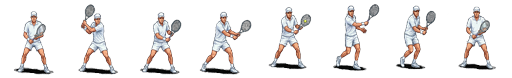
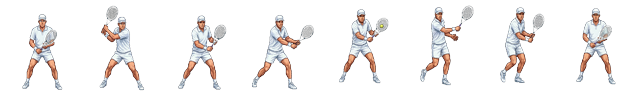
fix: larger sprites (80x96), better background removal

diff --git a/index.html b/index.html
@@ -88,21 +88,21 @@
         @keyframes ballGlow{0%,100%{transform:translate(-50%,-50%) scale(1.3)}50%{transform:translate(-50%,-50%) scale(1.6)}}
         .ball-shadow{position:absolute;width:20px;height:8px;background:radial-gradient(ellipse at center,rgba(0,0,0,0.4),transparent 70%);border-radius:50%;transform:translate(-50%,0);z-index:25;display:none}
         .ball-shadow.active{display:block}
-        .opponent{position:absolute;top:7%;left:50%;transform:translateX(-50%);width:64px;height:78px;display:flex;align-items:center;justify-content:center;z-index:30;transition:left 0.2s ease-out}
+        .opponent{position:absolute;top:5%;left:50%;transform:translateX(-50%);width:80px;height:96px;display:flex;align-items:center;justify-content:center;z-index:30;transition:left 0.2s ease-out}
         .opponent.hitting{animation:opponentHit 0.3s ease}
         @keyframes opponentHit{50%{transform:translateX(-50%) scale(1.2) rotate(-5deg)}}
-        .player-paddle{position:absolute;bottom:7%;width:64px;height:78px;display:flex;align-items:center;justify-content:center;transform:translateX(-50%);transition:left 0.1s ease-out;z-index:35}
+        .player-paddle{position:absolute;bottom:5%;width:80px;height:96px;display:flex;align-items:center;justify-content:center;transform:translateX(-50%);transition:left 0.1s ease-out;z-index:35}
         .player-paddle.can-hit{filter:drop-shadow(0 0 20px rgba(76,255,80,0.8));animation:paddleReady 0.4s ease-in-out infinite}
         @keyframes paddleReady{0%,100%{transform:translateX(-50%) scale(1.05)}50%{transform:translateX(-50%) scale(1)}}
-        .player-sprite{position:relative;width:64px;height:78px;overflow:hidden;image-rendering:pixelated;transform:scale(1);transition:transform 0.2s ease}
+        .player-sprite{position:relative;width:80px;height:96px;overflow:hidden;image-rendering:pixelated;transform:scale(1);transition:transform 0.2s ease}
         .player-sprite.flipped{transform:scaleX(-1)}
-        .sprite-inner{width:64px;height:78px;background-size:512px 78px;background-repeat:no-repeat;background-position:0 0}
+        .sprite-inner{width:80px;height:96px;background-size:640px 96px;background-repeat:no-repeat;background-position:0 0}
         .sprite-inner.playing-8{animation:playSprite8 0.5s steps(7) 1}
         .sprite-inner.playing-7{animation:playSprite7 0.5s steps(6) 1}
         .sprite-inner.playing-5{animation:playSprite5 0.5s steps(4) 1}
         .sprite-inner.playing-4{animation:playSprite4 0.4s steps(3) 1}
         .sprite-inner.cycling{animation:playSprite8 0.5s steps(7) infinite}
-        @keyframes playSprite8{0%{background-position:0 0}100%{background-position:-448px 0}}
+        @keyframes playSprite8{0%{background-position:0 0}100%{background-position:-560px 0}}
         @keyframes playSprite7{0%{background-position:0 0}100%{background-position:-360px 0}}
         @keyframes playSprite5{0%{background-position:0% var(--sprite-y)}100%{background-position:100% var(--sprite-y)}}
         @keyframes playSprite4{0%{background-position:0% var(--sprite-y)}100%{background-position:100% var(--sprite-y)}}
